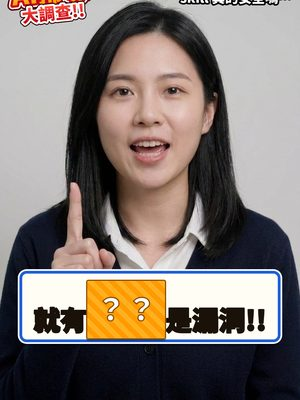
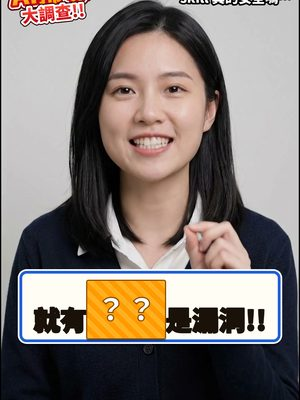
AT 風格選單縮圖 v2：加介面風五類 M～Q（共十七種），H 換新版

diff --git a/README.md b/README.md
@@ -1,26 +1,32 @@
 # AT 風格選單縮圖
 
-AT 自動剪輯的風格選單（十二種：甲～辛、壬～丑）每張卡片上的示意圖。選單透過 jsDelivr 讀這裡的圖：
+AT 自動剪輯的風格選單（v2 起十七種，代號 A～Q）每張卡片上的示意圖。選單透過 jsDelivr 讀這裡的圖：
 
 ```
 https://cdn.jsdelivr.net/gh/TW-Rick/at-style-thumbs@<tag>/<檔名>.jpg
 ```
 
 - 畫面裡的人是 **AI 生成的數字人**（Google Flow / Nano Banana 生成），不是真人。
-- 台詞是示範用的同一段 15 秒口播，十二種風格各套一次。
+- 台詞是示範用的同一段 15 秒口播，每種風格各套一次。
 - 換圖時請打新的 tag（v2、v3…），選單改指新 tag；舊 tag 的網址不會變。
+- v1：十二種（A～L）。v2：加介面風五類（M～Q），H 換成角落小框看得到肩膀的新版。
 
 | 檔名 | 風格 |
 |---|---|
-| 01_jia | 甲 台式綜藝花字 |
-| 02_yi | 乙 MrBeast 式高留存 |
-| 03_bing | 丙 Hormozi 式跳字 |
-| 04_ding | 丁 質感生活 vlog |
-| 05_wu | 戊 乾淨高級口播 |
-| 06_ji | 己 電影感 |
-| 07_geng | 庚 Johnny Harris 式紀錄片 |
-| 08_xin | 辛 日式綜藝 |
-| 09_ren | 壬 賽博朋克 |
-| 10_gui | 癸 天空與果凍玻璃 |
-| 11_zi | 子 虛幻夢核 |
-| 12_chou | 丑 Y3K 千禧超未來 |
+| 01_jia | A 台式綜藝花字 |
+| 02_yi | B MrBeast 式高留存 |
+| 03_bing | C Hormozi 式跳字 |
+| 04_ding | D 質感生活 vlog |
+| 05_wu | E 乾淨高級口播 |
+| 06_ji | F 電影感 |
+| 07_geng | G Johnny Harris 式紀錄片 |
+| 08_xin | H 日式綜藝 |
+| 09_ren | I 賽博朋克 |
+| 10_gui | J 天空與果凍玻璃 |
+| 11_zi | K 虛幻夢核 |
+| 12_chou | L Y3K 千禧超未來 |
+| 13_M | M 介面卡片風 |
+| 14_N | N 口播大標題 |
+| 15_O | O 螢幕展示風 |
+| 16_P | P 雜誌排版風 |
+| 17_Q | Q 動態字體 |
